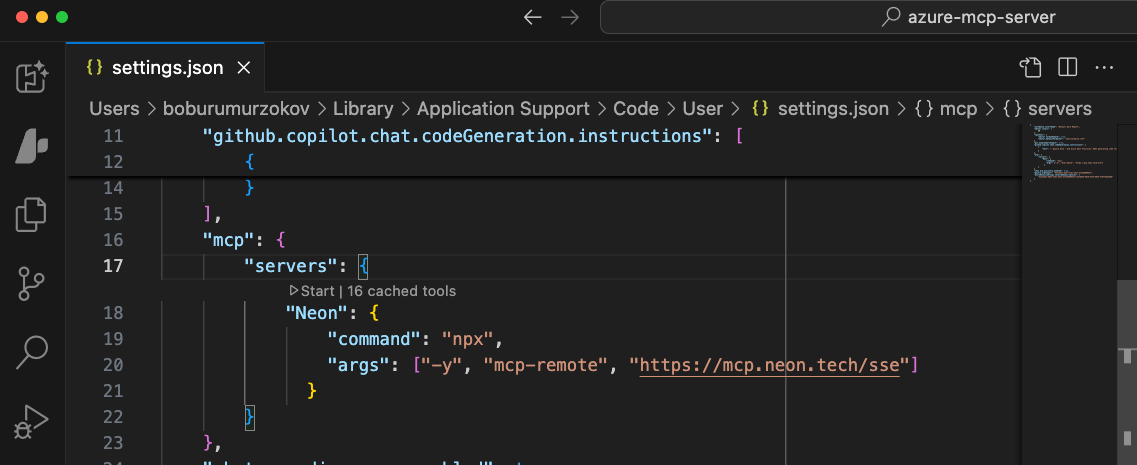
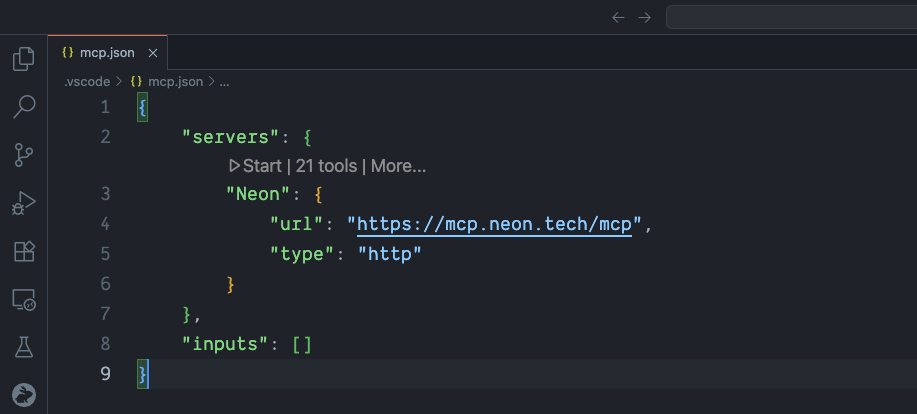
docs: use streamable http

diff --git a/content/docs/ai/connect-mcp-clients-to-neon.md b/content/docs/ai/connect-mcp-clients-to-neon.md
@@ -62,13 +62,13 @@ You can connect to Neon MCP Server in two ways:
      "mcpServers": {
        "Neon": {
          "command": "npx",
-         "args": ["-y", "mcp-remote@latest", "https://mcp.neon.tech/sse"]
+         "args": ["-y", "mcp-remote@latest", "https://mcp.neon.tech/mcp"]
        }
      }
    }
    ```
 
-   > For [streamable HTTP responses](#streamable-http-support) instead of SSE, you can specify the `https://mcp.neon.tech/mcp` endpoint instead of `https://mcp.neon.tech/sse`.
+   > To use SSE instead of streamable HTTP responses, you can specify the `https://mcp.neon.tech/sse` endpoint instead of `https://mcp.neon.tech/mcp`.
 
 4. Save the configuration file and **restart** Claude Desktop.
 5. An OAuth window will open in your browser. Follow the prompts to authorize Claude Desktop to access your Neon account.
@@ -145,7 +145,7 @@ claude mcp add --transport http neon https://mcp.neon.tech/mcp \
 
 Click the button below to install the Neon MCP server in Cursor. When prompted, click **Install** within Cursor.
 
-<a href="cursor://anysphere.cursor-deeplink/mcp/install?name=Neon&config=eyJ1cmwiOiJodHRwczovL21jcC5uZW9uLnRlY2gvc3NlIn0%3D"><img src="https://cursor.com/deeplink/mcp-install-dark.svg" alt="Add Neon MCP server to Cursor" height="32" /></a>
+<a href="cursor://anysphere.cursor-deeplink/mcp/install?name=Neon&config=eyJ1cmwiOiJodHRwczovL21jcC5uZW9uLnRlY2gvbWNwIn0%3D"><img src="https://cursor.com/deeplink/mcp-install-dark.svg" alt="Add Neon MCP server to Cursor" height="32" /></a>
 
 ### Manual Setup
 
@@ -158,13 +158,13 @@ Click the button below to install the Neon MCP server in Cursor. When prompted, 
       "mcpServers": {
         "Neon": {
           "command": "npx",
-          "args": ["-y", "mcp-remote@latest", "https://mcp.neon.tech/sse"]
+          "args": ["-y", "mcp-remote@latest", "https://mcp.neon.tech/mcp"]
         }
       }
     }
     ```
 
-    > For [streamable HTTP responses](#streamable-http-support) instead of SSE, you can specify the `https://mcp.neon.tech/mcp` endpoint instead of `https://mcp.neon.tech/sse`.
+    > To use SSE instead of streamable HTTP responses, you can specify the `https://mcp.neon.tech/sse` endpoint instead of `https://mcp.neon.tech/mcp`.
 
 4.  Save the configuration file. Cursor may detect the change or require a restart.
 5.  An OAuth window will open in your browser. Follow the prompts to authorize Cursor to access your Neon account.
@@ -209,13 +209,13 @@ For more, see [Get started with Cursor and Neon Postgres MCP Server](/guides/cur
       "mcpServers": {
         "Neon": {
           "command": "npx",
-          "args": ["-y", "mcp-remote@latest", "https://mcp.neon.tech/sse"]
+          "args": ["-y", "mcp-remote@latest", "https://mcp.neon.tech/mcp"]
         }
       }
     }
     ```
 
-    > For [streamable HTTP responses](#streamable-http-support) instead of SSE, you can specify the `https://mcp.neon.tech/mcp` endpoint instead of `https://mcp.neon.tech/sse`.
+    > To use SSE instead of streamable HTTP responses, you can specify the `https://mcp.neon.tech/sse` endpoint instead of `https://mcp.neon.tech/mcp`.
 
 5.  Save the file.
 6.  Click the **Refresh** button in the Cascade sidebar next to "available MCP servers".
@@ -365,27 +365,24 @@ To use MCP servers with VS Code, you need [GitHub Copilot](https://marketplace.v
 <TabItem>
 
 1.  Open VS Code.
-2.  Open your [User Settings (JSON) file](https://code.visualstudio.com/docs/copilot/chat/mcp-servers#_add-an-mcp-server-to-your-user-settings): Use the command palette (`Ctrl+Shift+P` or `Cmd+Shift+P`) and search for "Preferences: Open User Settings (JSON)".
-3.  Add the Neon MCP server configuration to your `settings.json` file. If the `"mcp.servers"` object doesn't exist, create it:
+2.  Create a `.vscode` folder in your project's root directory if it doesn't exist.
+3.  Create or open the `mcp.json` file in the `.vscode` directory and add the following configuration into the file (if you have other MCP servers configured, add the "Neon" server entry within the `servers` object):
 
     ```json
     {
-      // ... your other settings ...
-      "mcp": {
-        "servers": {
-          "Neon": {
-            "command": "npx",
-            "args": ["-y", "mcp-remote@latest", "https://mcp.neon.tech/sse"]
-          }
+      "servers": {
+        "Neon": {
+          "url": "https://mcp.neon.tech/mcp",
+          "type": "http"
         }
-      }
-      // ...
+      },
+      "inputs": []
     }
     ```
 
     > For [streamable HTTP responses](#streamable-http-support) instead of SSE, you can specify the `https://mcp.neon.tech/mcp` endpoint instead of `https://mcp.neon.tech/sse`.
 
-4.  Save the `settings.json` file.
+4.  Save the `mcp.json` file.
 5.  Click on Start on the MCP server.
 6.  An OAuth window will open in your browser. Follow the prompts to authorize VS Code (GitHub Copilot) to access your Neon account.
 7.  Once authorized, you can now open GitHub Copilot Chat in VS Code and [switch to Agent mode](https://code.visualstudio.com/docs/copilot/chat/chat-agent-mode). You will see the Neon MCP Server listed among the available tools.
@@ -435,11 +432,11 @@ Adapt the instructions above for other clients:
   ```json
   "neon": {
     "command": "npx",
-    "args": ["-y", "mcp-remote@latest", "https://mcp.neon.tech/sse"]
+    "args": ["-y", "mcp-remote@latest", "https://mcp.neon.tech/mcp"]
   }
   ```
 
-  > For [streamable HTTP responses](#streamable-http-support) instead of SSE, you can specify the `https://mcp.neon.tech/mcp` endpoint instead of `https://mcp.neon.tech/sse`.
+  > MCP supports two remote server transports: the deprecated Server-Sent Events (SSE) and the newer, recommended Streamable HTTP. If your LLM client doesn't support Streamable HTTP yet, you can switch the endpoint from `https://mcp.neon.tech/mcp` to `https://mcp.neon.tech/sse` to use SSE instead.
 
   Then follow the OAuth flow on first connection.
 
@@ -504,7 +501,7 @@ If your client does not use `JSON` for configuration of MCP servers (such as old
 
 ```bash
 # For Remote MCP server
-npx -y mcp-remote https://mcp.neon.tech/sse
+npx -y mcp-remote https://mcp.neon.tech/mcp
 
 # For Local MCP server
 npx -y @neondatabase/mcp-server-neon start <YOUR_NEON_API_KEY>

diff --git a/content/docs/ai/neon-mcp-server.md b/content/docs/ai/neon-mcp-server.md
@@ -68,7 +68,7 @@ The remote hosted MCP server is currently in its preview phase. As the [OAuth sp
 <Admonition type="tip" title="Install in a single click for Cursor users">
 Click the button below to install the Neon MCP server in Cursor. When prompted, click **Install** within Cursor.
 
-<a href="cursor://anysphere.cursor-deeplink/mcp/install?name=Neon&config=eyJ1cmwiOiJodHRwczovL21jcC5uZW9uLnRlY2gvc3NlIn0%3D"><img src="https://cursor.com/deeplink/mcp-install-dark.svg" alt="Add Neon MCP server to Cursor" height="32" /></a>
+<a href="cursor://anysphere.cursor-deeplink/mcp/install?name=Neon&config=eyJ1cmwiOiJodHRwczovL21jcC5uZW9uLnRlY2gvbWNwIn0%3D"><img src="https://cursor.com/deeplink/mcp-install-dark.svg" alt="Add Neon MCP server to Cursor" height="32" /></a>
 
 </Admonition>
 
@@ -82,15 +82,15 @@ Click the button below to install the Neon MCP server in Cursor. When prompted, 
       "mcpServers": {
         "Neon": {
           "command": "npx",
-          "args": ["-y", "mcp-remote@latest", "https://mcp.neon.tech/sse"]
+          "args": ["-y", "mcp-remote@latest", "https://mcp.neon.tech/mcp"]
         }
       }
     }
     ```
 
-    This command uses `npx` to run a [small helper (`mcp-remote`)](https://github.com/geelen/mcp-remote) that connects to Neon's hosted server endpoint (`https://mcp.neon.tech/sse`).
+    This command uses `npx` to run a [small helper (`mcp-remote`)](https://github.com/geelen/mcp-remote) that connects to Neon's hosted server endpoint (`https://mcp.neon.tech/mcp`).
 
-    For [streamable HTTP responses](#streamable-http-support) instead of SSE, you can specify the `https://mcp.neon.tech/mcp` endpoint instead of `https://mcp.neon.tech/sse`.
+    MCP supports two remote server transports: the deprecated Server-Sent Events (SSE) and the newer, recommended Streamable HTTP. If your LLM client doesn't support Streamable HTTP yet, you can switch the endpoint from `https://mcp.neon.tech/mcp` to `https://mcp.neon.tech/sse` to use SSE instead.
 
 3.  Save the configuration and **restart or refresh** your MCP client application.
 4.  The first time the client initializes Neon's MCP server, it should trigger an **OAuth flow**:

diff --git a/content/guides/neon-mcp-server-github-copilot-vs-code.md b/content/guides/neon-mcp-server-github-copilot-vs-code.md
@@ -41,26 +41,25 @@ For more information, see [MCP security guidance →](/docs/ai/neon-mcp-server#m
 
 ## Connect GitHub Copilot to the Neon MCP Server
 
-### **Create Neon Database**
+### Create Neon Database
 
 Visit the [Neon on Azure Marketplace](https://portal.azure.com/#view/Azure_Marketplace_Neon/NeonCreateResource.ReactView) page and follow the [Create a Neon resource](/docs/azure/azure-deploy#create-a-neon-resource) guide to deploy Neon on Azure for your subscription. Neon offers a [Free plan](/pricing) that provides more than enough resources to build a proof of concept or kick off a new startup project.
 
 ### Install the Neon MCP Server for VS Code
 
-Neon MCP Server offers two options for connecting your VS Code MCP client to Neon. We will use the [Remote Hosted MCP Server option](https://github.com/neondatabase-labs/mcp-server-neon?tab=readme-ov-file#option-1-remote-hosted-mcp-server-preview). This is the simplest setup—no need to install anything locally or configure a Neon API key in your client.
+Neon MCP Server offers two options for connecting your VS Code MCP client to Neon. We will use the [Remote Hosted MCP Server option](https://github.com/neondatabase-labs/mcp-server-neon?tab=readme-ov-file#option-1-remote-hosted-mcp-server-preview). This is the simplest setup no need to install anything locally or configure a Neon API key in your client.
 
-Add the following Neon MCP server configuration to your [user settings](https://code.visualstudio.com/docs/copilot/chat/mcp-servers#_add-an-mcp-server-to-your-user-settings) in VS Code:
+In your project directory, create a new file named `.vscode/mcp.json` and add the following configuration:
 
 ```json
 {
-  "mcp": {
-    "servers": {
-      "Neon": {
-        "command": "npx",
-        "args": ["-y", "mcp-remote@latest", "https://mcp.neon.tech/sse"]
-      }
-    }
-  }
+	"servers": {
+		"Neon": {
+			"url": "https://mcp.neon.tech/mcp",
+			"type": "http"
+		}
+	},
+	"inputs": []
 }
 ```
 

diff --git a/content/guides/cursor-mcp-neon.md b/content/guides/cursor-mcp-neon.md
@@ -57,7 +57,7 @@ Before you begin, ensure you have the following:
 
 Click the button below to install the Neon MCP server in Cursor. When prompted, click **Install** within Cursor.
 
-<a href="cursor://anysphere.cursor-deeplink/mcp/install?name=Neon&config=eyJ1cmwiOiJodHRwczovL21jcC5uZW9uLnRlY2gvc3NlIn0%3D"><img src="https://cursor.com/deeplink/mcp-install-dark.svg" alt="Add Neon MCP server to Cursor" height="32" /></a>
+<a href="cursor://anysphere.cursor-deeplink/mcp/install?name=Neon&config=eyJ1cmwiOiJodHRwczovL21jcC5uZW9uLnRlY2gvbWNwIn0%3D"><img src="https://cursor.com/deeplink/mcp-install-dark.svg" alt="Add Neon MCP server to Cursor" height="32" /></a>
 
 #### Manual Setup
 
@@ -73,7 +73,7 @@ This method uses Neon's managed server and OAuth authentication.
      "mcpServers": {
        "Neon": {
          "command": "npx",
-         "args": ["-y", "mcp-remote@latest", "https://mcp.neon.tech/sse"]
+         "args": ["-y", "mcp-remote@latest", "https://mcp.neon.tech/mcp"]
        }
      }
    }

diff --git a/content/guides/windsurf-mcp-neon.md b/content/guides/windsurf-mcp-neon.md
@@ -74,7 +74,7 @@ You can either watch the video below or follow the steps to set up the Neon MCP 
      "mcpServers": {
        "Neon": {
          "command": "npx",
-         "args": ["-y", "mcp-remote@latest", "https://mcp.neon.tech/sse"]
+         "args": ["-y", "mcp-remote@latest", "https://mcp.neon.tech/mcp"]
        }
      }
    }

diff --git a/content/guides/neon-mcp-server.md b/content/guides/neon-mcp-server.md
@@ -94,7 +94,7 @@ You have two options for connecting Claude to the Neon MCP Server:
      "mcpServers": {
        "Neon": {
          "command": "npx",
-         "args": ["-y", "mcp-remote@latest", "https://mcp.neon.tech/sse"]
+         "args": ["-y", "mcp-remote@latest", "https://mcp.neon.tech/mcp"]
        }
      }
    }
